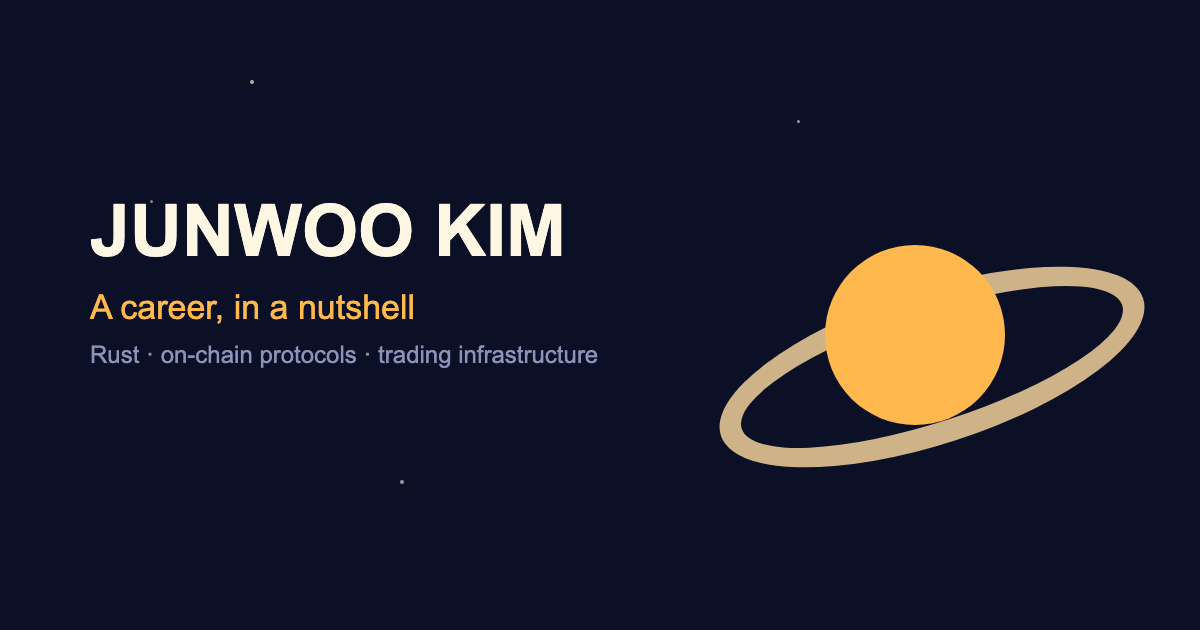
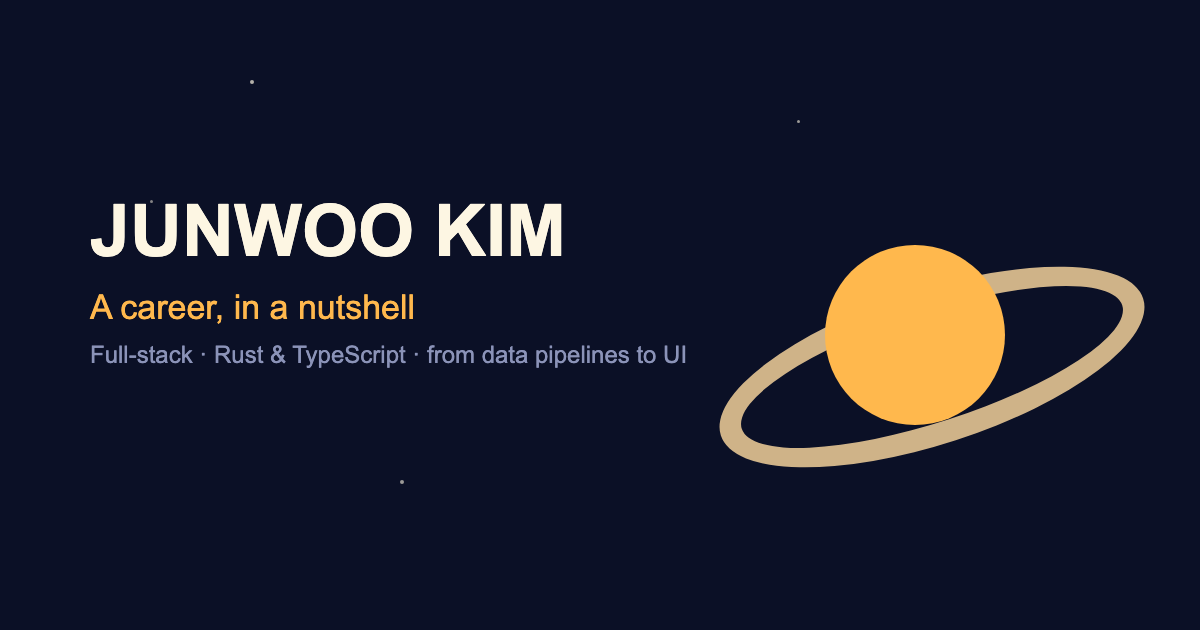
fix: OG 카드·스펙 문서·PW_PORT를 풀스택 포지셔닝/실제 설정과 동기화
- scripts/generate-og.mjs의 태그라인을 새 포지셔닝 문구로 교체하고
  app/opengraph-image.png를 재생성 (og:title과 어긋나던 문제 해결)
- app/opengraph-image.alt.txt의 자기소개를 full-stack engineer로 수정
- docs/superpowers/specs/2026-07-24-portfolio-redesign-design.md의
  SEO 타이틀과 playwright.config.ts 계약 설명을 실제 코드와 일치시킴
- playwright.config.ts: PW_PORT가 빈 문자열/숫자 아닌 값일 때 ??가 이를
  통과시켜 baseURL이 깨지는 문제를 || 폴백으로 수정

Claude-Session: https://claude.ai/code/session_01SqGNWmxCbwdPXEBkq1Xm84

Changed region(s): [[0.0617, 0.5429, 0.5858, 0.6032]]

diff --git a/playwright.config.ts b/playwright.config.ts
@@ -1,7 +1,9 @@
 import { defineConfig, devices } from '@playwright/test'
 
 // 포트는 PW_PORT로 덮어쓸 수 있다. 기본값이 3000이 아닌 이유는 아래 reuseExistingServer 주석 참고.
-const port = Number(process.env.PW_PORT ?? 3100)
+// `??`가 아닌 `||`를 쓰는 이유: PW_PORT가 빈 문자열이거나 숫자로 파싱되지 않으면(Number('')는 0,
+// Number('abc')는 NaN) 조용히 깨진 baseURL이 되는 것을 막기 위해 falsy 값을 모두 기본값으로 폴백한다.
+const port = Number(process.env.PW_PORT) || 3100
 const baseURL = `http://127.0.0.1:${port}`
 
 export default defineConfig({

diff --git a/docs/superpowers/specs/2026-07-24-portfolio-redesign-design.md b/docs/superpowers/specs/2026-07-24-portfolio-redesign-design.md
@@ -270,19 +270,24 @@ steps:
 ```
 `out/` 정적 서버는 Playwright가 직접 관리한다 — `playwright.config.ts` 계약:
 ```ts
+const port = Number(process.env.PW_PORT) || 3100
 webServer: {
-  command: 'npx serve out -l 3000',
-  url: 'http://127.0.0.1:3000',
-  reuseExistingServer: !process.env.CI,
+  command: `npx serve out -l ${port}`,
+  url: `http://127.0.0.1:${port}`,
+  reuseExistingServer: false,
 }
 ```
+포트는 `PW_PORT`로 덮어쓸 수 있으며 기본값은 3100(3000 아님). `reuseExistingServer`는
+항상 `false`로 고정한다 — 재사용을 허용하면 같은 포트를 점유한 **다른 프로젝트**의
+앱을 그대로 테스트 대상으로 삼아 테스트 스위트 전체가 조용히 엉뚱한 사이트를
+검사하는 문제가 있었다.
 deploy job은 build job을 `needs`로 참조, `actions/deploy-pages@v4` +
 `github-pages` environment 지정. 저장소 설정에서 Pages 소스를
 "GitHub Actions"로 1회 수동 변경 필요.
 
 ### SEO/메타
 - `metadataBase: new URL('https://junu1229.github.io')`
-- title: "Junwoo Kim — Rust & On-chain Engineer"
+- title: "Junwoo Kim — Full-stack Engineer"
 - OG 이미지는 `app/opengraph-image.png` 파일 컨벤션 사용
 - 모든 카피는 실제 DOM 텍스트로 존재
 
